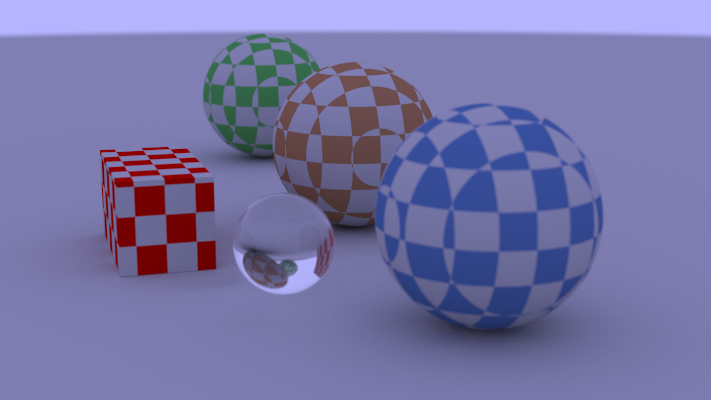
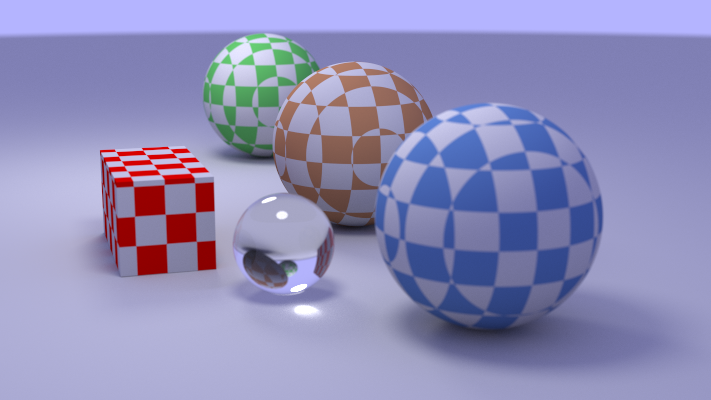
update examples and fix a Diffuse_light bug

diff --git a/example1.py b/example1.py
@@ -4,6 +4,7 @@ from sightpy import *
 point3 = vec3
 color = vec3
 
+light = Diffuse_light(solid_color(15, 15, 15))
 
 
 scene = Scene(ambient_color = color(0.5,0.5,1.0))
@@ -19,19 +20,23 @@ scene.add(Sphere(point3(4, 1, 0), 1.0, Diffuse(checker_texture(solid_color(0.1, 
 scene.add(Sphere(point3(2.5, 0.49, 1.5), 0.5, Refractive(1.5)))
 scene.add(Box(point3(-0.5, 0, 2), point3(1.5, 1, 3), Diffuse(checker_texture(solid_color(0.6, 0.0, 0.0) , solid_color(0.5, 0.5, 0.5)))))
 
+#lights
+scene.add(Sphere(point3(3.5, 6, 2), 1.0, light), importance_sampled = True)
+scene.add(Sphere(point3(-3.5, 5, 2), 1.0, light), importance_sampled = True)
+
 
 
 
 scene.add_Camera(lookfrom = point3(13,3.3,4),
 			  lookat = point3(0,0.3,0),
-			  screen_width = int(240*16/9), 
-			  screen_height = 240,
+			  screen_width = int(200*16/9), 
+			  screen_height = 200,
 			  field_of_view = 20,
 			  focal_distance  = (point3(13,2,4)).length(),
 			  aperture  = 0.1)
 
 
-img = scene.render(samples_per_pixel = 200, max_depth = 4)
+img = scene.render(samples_per_pixel = 300, max_depth = 4)
 
 img.save("example1.png")
 

diff --git a/sightpy/render.cpp b/sightpy/render.cpp
@@ -100,7 +100,7 @@ void render_image(py::array_t<double>& r_arr, py::array_t<double>& g_arr, py::ar
            *g_ptr = (double *) g_arr.request().ptr,
            *b_ptr = (double *) b_arr.request().ptr;
 
-    
+
     const int image_height = (const int)r_arr.shape(0),  image_width = (const int)r_arr.shape(1);
     const int processor_count = std::thread::hardware_concurrency();
     const int number_of_threads = (processor_count > MAX_THREADS) ? MAX_THREADS : processor_count;

diff --git a/sightpy/materials/material.h b/sightpy/materials/material.h
@@ -83,10 +83,7 @@ class Diffuse_light : public Material {
         Diffuse_light(shared_ptr<texture> a) : emit(a) {}
 
         virtual color get_color(const Ray& ray, const Scene_info& scene , const Hit_record& hit) const {
-            if (hit.orientation == UPDOWN)
             return emit->value(hit.u, hit.v, hit.position);
-            else
-                return  vec3(0., 0., 0.);
         }
 
     public:

diff --git a/example2.py b/example2.py
@@ -32,8 +32,8 @@ scene.add(Sphere(vec3(160, 165/2, +65+185/2), 165/2, Refractive(1.5)))
 
 scene.add_Camera(lookfrom = point3(278, 278, -800),
 				  lookat = point3(278,278,0),
-				  screen_width = 250, 
-				  screen_height = 250,
+				  screen_width = 200, 
+				  screen_height = 200,
 				  field_of_view = 40,
 				  focal_distance  = 10.0,
 				  aperture  = 0.0)
